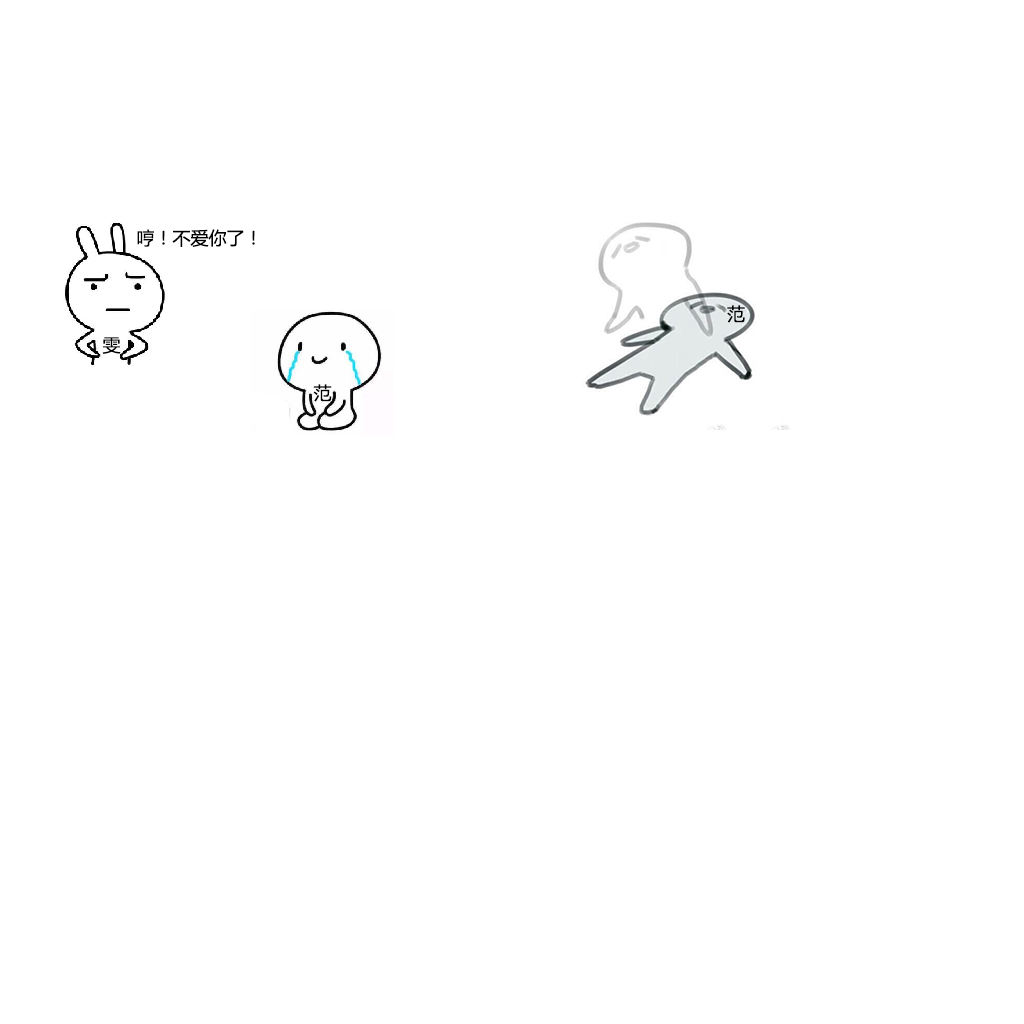
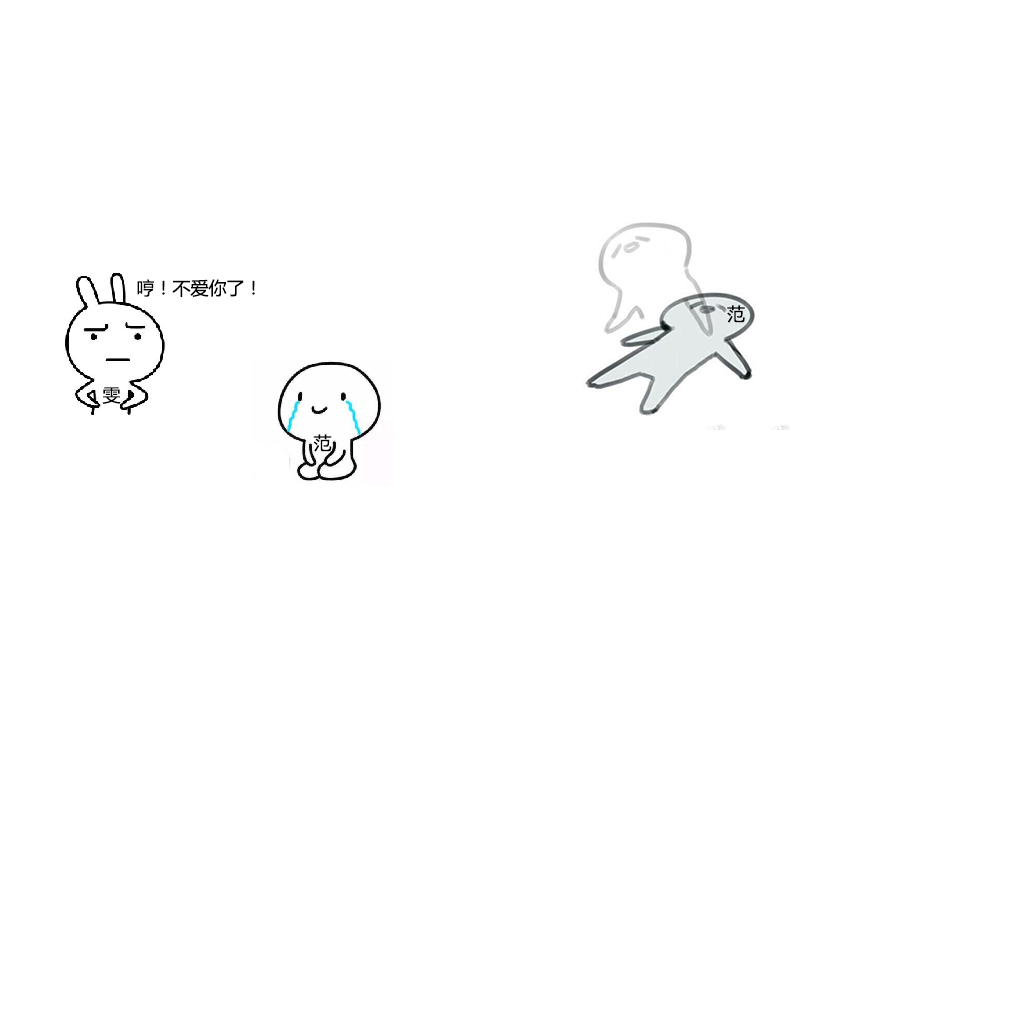
1805181145

Changed region(s): [[0.0625, 0.2188, 0.25, 0.4062], [0.25, 0.3125, 0.375, 0.4688], [0.3125, 0.2812, 0.3438, 0.3125]]

diff --git a/h5game/game1yr/data.js b/h5game/game1yr/data.js
@@ -1,1 +1,1 @@
-{"project": [null,"drama",[[0,false,true,true,true,true,true,true,true,false],[1,false,true,true,true,true,true,true,true,false],[2,false,true,true,true,true,true,true,true,true],[3,true,false,false,false,false,false,false,false,false]],[["t0",1,false,[345920741049233],0,0,null,null,[],false,false,833834708557820,[],null],["t1",1,false,[968181236481826],0,0,null,null,[],false,false,401380508815574,[],null],["t2",0,false,[],1,0,null,[["Default",5,false,1,0,false,888004416697292,[["images/e_heart-sheet0.png",5558,0,0,120,120,1,0.5,0.5,[],[-0.3833329975605011,-0.3833329975605011,0,-0.2416670024394989,0.3833330273628235,-0.3833329975605011,0.4166669845581055,0,0.2333329916000366,0.2333329916000366,0,0.425000011920929,-0.2333329916000366,0.2333329916000366,-0.4166666865348816,0],0]]]],[["MoveTo",4,784348790706446]],false,false,629736981080906,[],null],["t3",3,false,[],0,0,null,null,[],false,false,849059333348649,[],null,[1]],["t4",1,false,[770609675939215,755758214502605],0,0,null,null,[],false,false,494635950365677,[],null],["t5",0,false,[],1,0,null,[["Default",5,false,1,0,false,535176780121684,[["images/e_man-sheet0.png",5813,0,0,66,114,1,0.5,0.5,[],[-0.2272729873657227,-0.3421050012111664,0,-0.4912280738353729,0.2272729873657227,-0.3421050012111664,0.3333330154418945,0,0.1969699859619141,0.3245609998703003,0,0.1666669845581055,-0.1969699859619141,0.3245609998703003,-0.3333330154418945,0],0]]]],[["MoveTo",4,563359205999156]],false,false,976148364325725,[],null],["t6",0,false,[],0,0,null,[["Default",5,false,1,0,false,100685834076415,[["images/e_women-sheet0.png",6716,0,0,64,114,1,0.5,0.5,[],[-0.265625,-0.3684210181236267,0,-0.4912280738353729,0.25,-0.3596490025520325,0.328125,0,0.203125,0.3333330154418945,0,0.2105259895324707,-0.21875,0.342104971408844,-0.34375,0],0]]]],[],false,false,238268763879510,[],null],["t7",2,false,[],0,0,["images/life.png",463,0],null,[],false,false,712185155576750,[],null],["t8",0,false,[],1,0,null,[["Default",5,false,1,0,false,287558582037552,[["images/retrybtn-sheet0.png",604,0,0,69,24,1,0.5072463750839233,0.5,[],[],1]]]],[["Persist",5,150662886998711]],false,false,158782196031559,[],null],["t9",0,false,[],1,0,null,[["Default",0,false,1,0,false,986628004612632,[["images/drama-sheet0.png",62555,1,1,450,700,1,0.5,0.5,[],[],0],["images/drama-sheet0.png",62555,453,1,450,700,1,0.5,0.5,[],[],0],["images/drama-sheet1.png",6471,0,0,450,700,1,0.5,0.5,[],[],1]]]],[["Persist",5,108712108577853]],false,false,980553256130245,[],null]],[],[["game",450,700,false,"gameE",910003685062226,[["Layer 0",0,813286646660616,true,[255,255,255],false,1,1,1,false,false,1,0,0,[[[-78,66,0,53,30,0,0,1,0,0,0,0,[]],4,6,[[0],[0]],[],["xy",0,"12pt Arial","rgb(0,0,0)",0,0,0,0,0]],[[315,555,0,66,114,0,0,1,0.5,0.5,0,0,[]],5,2,[],[[1,800,0,0,0,0]],[0,"Default",0,1]],[[225,350,0,64,114,0,0,1,0.5,0.5,0,0,[]],6,3,[],[],[0,"Default",0,0]],[[-69,32,0,30,30,0,0,1,0.5,0.5,0,0,[]],2,4,[],[[1,400,0,0,0,0]],[0,"Default",0,1]]],[]],["UI",1,726810393856768,true,[255,255,255],true,1,1,1,false,false,1,0,0,[[[34,38,0,137,30,0,0,1,0,0,0,0,[]],0,0,[[30]],[],["Time:",0,"16pt Arial","rgb(0,0,0)",0,0,0,0,0]],[[38,81,0,48,30,0,0,1,0,0,0,0,[]],1,1,[[200]],[],["Life:",0,"16pt Arial","rgb(0,0,0)",0,0,0,0,0]],[[87,82,0,200,20,0,0,1,0,0,0,0,[]],7,7,[],[],[0,0]]],[]]],[],[]],["drama",450,700,false,"dramaE",913042483727545,[["Layer 0",0,719547008500717,true,[255,255,255],false,1,1,1,false,false,1,0,0,[[[225,350,0,450,700,0,0,1,0.5,0.5,0,0,[]],9,10,[],[[]],[0,"Default",0,0]],[[712,515,0,69,24,0,0,1,0.5072463750839233,0.5,0,0,[]],8,11,[],[[]],[0,"Default",0,0]]],[]]],[],[]]],[["gameE",[[0,null,false,null,811218815383499,[[-1,6,null,0,false,false,false,215232527636861,false]],[[0,7,null,573444694728840,false,[[7,[10,[10,[2,"Time: "],[19,8,[[21,0,false,null,0]]]],[2," s"]]]]],[7,9,null,403838999493133,false,[[0,[21,1,false,null,0]]]]]],[0,null,false,null,866344984453822,[[3,10,null,1,false,false,false,879906395094198,false],[2,11,null,0,false,false,false,389269043681556,false]],[[4,12,null,965002623962789,false,[[10,0],[7,[20,3,13,false,null]]]],[4,12,null,517000870091983,false,[[10,1],[7,[20,3,14,false,null]]]],[2,15,null,864569489345377,false,[[0,[20,6,16,false,null]],[0,[20,6,17,false,null]]]],[2,18,"MoveTo",764227716587733,false,[[0,[21,4,false,null,0]],[0,[21,4,false,null,1]]]],[2,19,"MoveTo",836148478809600,false,[[0,[0,800]],[0,[22,2,"MoveTo",20,false,null]]]]]],[0,null,false,null,557333179560784,[[-1,21,null,0,false,false,false,722168034704128,false,[[0,[0,1]]]],[-1,22,null,0,false,false,false,551318149205994,false,[[11,"state"],[8,0],[7,[0,1]]]]],[[5,18,"MoveTo",548538603292540,false,[[0,[4,[6,[19,23,[[19,24,[[0,4]]]]],[0,100]],[0,20]]],[0,[4,[6,[19,23,[[19,24,[[0,6]]]]],[0,100]],[0,20]]]]],[0,25,null,986368912909075,false,[[10,0],[7,[0,1]]]],[1,25,null,786729749591256,false,[[10,0],[7,[0,25]]]]]],[0,null,false,null,615411417067025,[[5,26,null,0,false,false,true,845551180320075,false,[[4,2]]]],[[1,27,null,329534261223805,false,[[10,0],[7,[0,50]]]]]],[0,null,false,null,771084409307227,[[0,28,null,0,false,false,false,841055328856171,false,[[10,0],[8,0],[7,[0,0]]]]],[[-1,29,null,229371242981779,false,[[11,"state"],[7,[0,2]]]],[-1,30,null,797907777446103,false,[[0,[0,1]]]],[-1,31,null,976649614626457,false,[[1,[2,"drama"]]]]]],[0,null,false,null,590750522653685,[[1,28,null,0,false,false,false,729910685142193,false,[[10,0],[8,0],[7,[0,0]]]]],[[-1,30,null,485083378824976,false,[[0,[0,1]]]],[-1,31,null,609638817256636,false,[[1,[2,"drama"]]]]]]]],["dramaE",[[1,"state",0,1,false,false,336206412958675,false],[0,null,false,null,647309548685650,[[3,32,null,1,false,false,false,665126199933534,false,[[4,9]]],[-1,22,null,0,false,false,false,911293062098523,false,[[11,"state"],[8,0],[7,[0,1]]]]],[[9,33,null,923595344148072,false,[[0,[0,1]]]],[8,15,null,723261519859476,false,[[0,[0,225]],[0,[0,515]]]]]],[0,null,false,null,310610150769595,[[3,32,null,1,false,false,false,948743304085355,false,[[4,8]]]],[[-1,31,null,621756101605496,false,[[1,[2,"game"]]]]]],[0,null,false,null,435869359695639,[[-1,22,null,0,false,false,false,230994380720750,false,[[11,"state"],[8,0],[7,[0,2]]]]],[[9,33,null,899710936953776,false,[[0,[0,2]]]],[8,34,null,263017332692416,false]]]]]],[],"media/",false,450,700,4,true,true,true,"1.0.0.0",true,false,2,0,12,false,true,1,true,"一周年礼物",0,[]]}
+{"project": [null,"drama",[[0,false,true,true,true,true,true,true,true,false],[1,false,true,true,true,true,true,true,true,false],[2,false,true,true,true,true,true,true,true,true],[3,true,false,false,false,false,false,false,false,false]],[["t0",1,false,[345920741049233],0,0,null,null,[],false,false,833834708557820,[],null],["t1",1,false,[968181236481826],0,0,null,null,[],false,false,401380508815574,[],null],["t2",0,false,[],1,0,null,[["Default",5,false,1,0,false,888004416697292,[["images/e_heart-sheet0.png",5558,0,0,120,120,1,0.5,0.5,[],[-0.3833329975605011,-0.3833329975605011,0,-0.2416670024394989,0.3833330273628235,-0.3833329975605011,0.4166669845581055,0,0.2333329916000366,0.2333329916000366,0,0.425000011920929,-0.2333329916000366,0.2333329916000366,-0.4166666865348816,0],0]]]],[["MoveTo",4,784348790706446]],false,false,629736981080906,[],null],["t3",3,false,[],0,0,null,null,[],false,false,849059333348649,[],null,[1]],["t4",1,false,[770609675939215,755758214502605],0,0,null,null,[],false,false,494635950365677,[],null],["t5",0,false,[],1,0,null,[["Default",5,false,1,0,false,535176780121684,[["images/e_man-sheet0.png",5813,0,0,66,114,1,0.5,0.5,[],[-0.2272729873657227,-0.3421050012111664,0,-0.4912280738353729,0.2272729873657227,-0.3421050012111664,0.3333330154418945,0,0.1969699859619141,0.3245609998703003,0,0.1666669845581055,-0.1969699859619141,0.3245609998703003,-0.3333330154418945,0],0]]]],[["MoveTo",4,563359205999156]],false,false,976148364325725,[],null],["t6",0,false,[],0,0,null,[["Default",5,false,1,0,false,100685834076415,[["images/e_women-sheet0.png",6716,0,0,64,114,1,0.5,0.5,[],[-0.265625,-0.3684210181236267,0,-0.4912280738353729,0.25,-0.3596490025520325,0.328125,0,0.203125,0.3333330154418945,0,0.2105259895324707,-0.21875,0.342104971408844,-0.34375,0],0]]]],[],false,false,238268763879510,[],null],["t7",2,false,[],0,0,["images/life.png",463,0],null,[],false,false,712185155576750,[],null],["t8",0,false,[],1,0,null,[["Default",5,false,1,0,false,287558582037552,[["images/retrybtn-sheet0.png",604,0,0,69,24,1,0.5072463750839233,0.5,[],[],1]]]],[["Persist",5,150662886998711]],false,false,158782196031559,[],null],["t9",0,false,[],1,0,null,[["Default",0,false,1,0,false,986628004612632,[["images/drama-sheet0.png",63358,1,1,450,800,1,0.5,0.5,[],[],0],["images/drama-sheet0.png",63358,453,1,450,700,1,0.5,0.5,[],[],0],["images/drama-sheet1.png",6471,0,0,450,700,1,0.5,0.5,[],[],1]]]],[["Persist",5,108712108577853]],false,false,980553256130245,[],null]],[],[["game",450,800,false,"gameE",910003685062226,[["Layer 0",0,813286646660616,true,[255,255,255],false,1,1,1,false,false,1,0,0,[[[-78,66,0,53,30,0,0,1,0,0,0,0,[]],4,6,[[0],[0]],[],["xy",0,"12pt Arial","rgb(0,0,0)",0,0,0,0,0]],[[327,626,0,66,114,0,0,1,0.5,0.5,0,0,[]],5,2,[],[[1,800,0,0,0,0]],[0,"Default",0,1]],[[225,400,0,64,114,0,0,1,0.5,0.5,0,0,[]],6,3,[],[],[0,"Default",0,0]],[[-69,32,0,30,30,0,0,1,0.5,0.5,0,0,[]],2,4,[],[[1,400,0,0,0,0]],[0,"Default",0,1]]],[]],["UI",1,726810393856768,true,[255,255,255],true,1,1,1,false,false,1,0,0,[[[34,38,0,137,30,0,0,1,0,0,0,0,[]],0,0,[[30]],[],["Time:",0,"16pt Arial","rgb(0,0,0)",0,0,0,0,0]],[[38,81,0,48,30,0,0,1,0,0,0,0,[]],1,1,[[200]],[],["Life:",0,"16pt Arial","rgb(0,0,0)",0,0,0,0,0]],[[87,82,0,200,20,0,0,1,0,0,0,0,[]],7,7,[],[],[0,0]]],[]]],[],[]],["drama",450,800,false,"dramaE",913042483727545,[["Layer 0",0,719547008500717,true,[255,255,255],false,1,1,1,false,false,1,0,0,[[[225,400,0,450,800,0,0,1,0.5,0.5,0,0,[]],9,10,[],[[]],[0,"Default",0,0]],[[712,565,0,69,24,0,0,1,0.5072463750839233,0.5,0,0,[]],8,11,[],[[]],[0,"Default",0,0]]],[]]],[],[]]],[["gameE",[[0,null,false,null,811218815383499,[[-1,6,null,0,false,false,false,215232527636861,false]],[[0,7,null,573444694728840,false,[[7,[10,[10,[2,"Time: "],[19,8,[[21,0,false,null,0]]]],[2," s"]]]]],[7,9,null,403838999493133,false,[[0,[21,1,false,null,0]]]]]],[0,null,false,null,866344984453822,[[3,10,null,1,false,false,false,879906395094198,false],[2,11,null,0,false,false,false,389269043681556,false]],[[4,12,null,965002623962789,false,[[10,0],[7,[20,3,13,false,null]]]],[4,12,null,517000870091983,false,[[10,1],[7,[20,3,14,false,null]]]],[2,15,null,864569489345377,false,[[0,[20,6,16,false,null]],[0,[20,6,17,false,null]]]],[2,18,"MoveTo",764227716587733,false,[[0,[21,4,false,null,0]],[0,[21,4,false,null,1]]]],[2,19,"MoveTo",836148478809600,false,[[0,[0,800]],[0,[22,2,"MoveTo",20,false,null]]]]]],[0,null,false,null,557333179560784,[[-1,21,null,0,false,false,false,722168034704128,false,[[0,[0,1]]]],[-1,22,null,0,false,false,false,551318149205994,false,[[11,"state"],[8,0],[7,[0,1]]]]],[[5,18,"MoveTo",548538603292540,false,[[0,[4,[6,[19,23,[[19,24,[[0,4]]]]],[0,100]],[0,20]]],[0,[4,[6,[19,23,[[19,24,[[0,6]]]]],[0,100]],[0,20]]]]],[0,25,null,986368912909075,false,[[10,0],[7,[0,1]]]],[1,25,null,786729749591256,false,[[10,0],[7,[0,25]]]]]],[0,null,false,null,615411417067025,[[5,26,null,0,false,false,true,845551180320075,false,[[4,2]]]],[[1,27,null,329534261223805,false,[[10,0],[7,[0,50]]]]]],[0,null,false,null,771084409307227,[[0,28,null,0,false,false,false,841055328856171,false,[[10,0],[8,0],[7,[0,0]]]]],[[-1,29,null,229371242981779,false,[[11,"state"],[7,[0,2]]]],[-1,30,null,797907777446103,false,[[0,[0,1]]]],[-1,31,null,976649614626457,false,[[1,[2,"drama"]]]]]],[0,null,false,null,590750522653685,[[1,28,null,0,false,false,false,729910685142193,false,[[10,0],[8,0],[7,[0,0]]]]],[[-1,30,null,485083378824976,false,[[0,[0,1]]]],[-1,31,null,609638817256636,false,[[1,[2,"drama"]]]]]]]],["dramaE",[[1,"state",0,1,false,false,336206412958675,false],[0,null,false,null,647309548685650,[[3,32,null,1,false,false,false,665126199933534,false,[[4,9]]],[-1,22,null,0,false,false,false,911293062098523,false,[[11,"state"],[8,0],[7,[0,1]]]]],[[9,33,null,923595344148072,false,[[0,[0,1]]]],[8,15,null,723261519859476,false,[[0,[0,225]],[0,[0,565]]]]]],[0,null,false,null,310610150769595,[[3,32,null,1,false,false,false,948743304085355,false,[[4,8]]]],[[-1,31,null,621756101605496,false,[[1,[2,"game"]]]]]],[0,null,false,null,435869359695639,[[-1,22,null,0,false,false,false,230994380720750,false,[[11,"state"],[8,0],[7,[0,2]]]]],[[9,33,null,899710936953776,false,[[0,[0,2]]]],[8,34,null,263017332692416,false]]]]]],[],"media/",false,450,800,4,true,true,true,"1.0.0.0",true,false,2,0,12,false,true,1,true,"一周年礼物",0,[]]}

diff --git a/h5game/game1yr/index.html b/h5game/game1yr/index.html
@@ -61,7 +61,7 @@
 	
 		<!-- The canvas the project will render to.  If you change its ID, don't forget to change the
 		ID the runtime looks for in the jQuery events above (ready() and cr_sizeCanvas()). -->
-		<canvas id="c2canvas" width="450" height="700">
+		<canvas id="c2canvas" width="450" height="800">
 			<!-- This text is displayed if the visitor's browser does not support HTML5.
 			You can change it, but it is a good idea to link to a description of a browser
 			and provide some links to download some popular HTML5-compatible browsers. -->

diff --git a/h5game/game1yr/offline.js b/h5game/game1yr/offline.js
@@ -1,5 +1,5 @@
 {
-	"version": 1526614072,
+	"version": 1526615108,
 	"fileList": [
 		"data.js",
 		"c2runtime.js",
